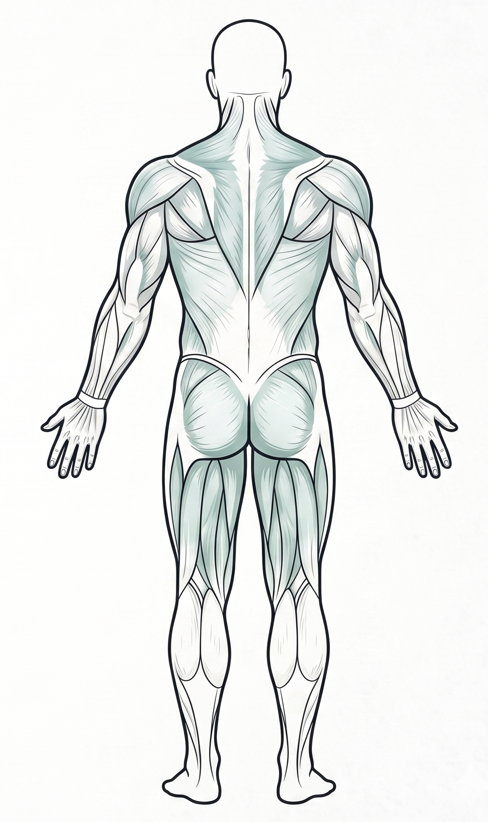
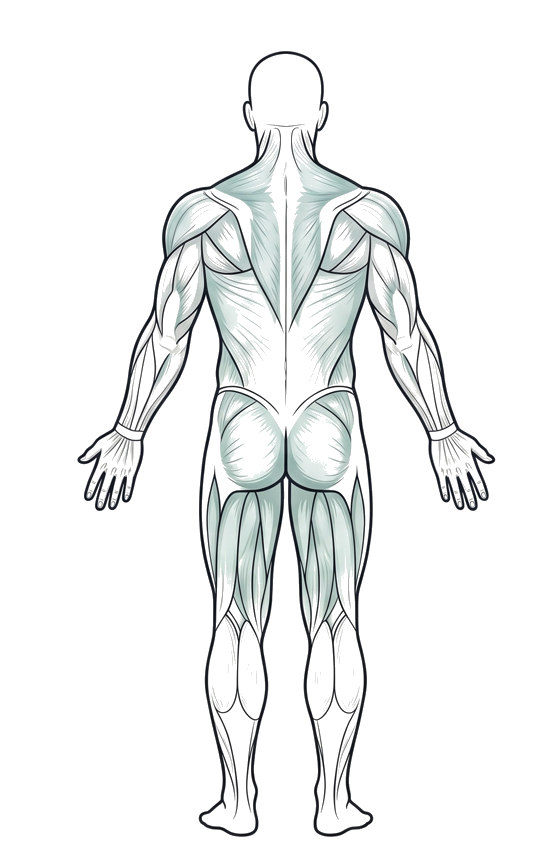
fix: transparent body PNGs; visible zone outlines; recalibrated hit areas for 499x820 images

Changed region(s): [[0.0922, 0.0304, 0.9529, 1.0], [0.4611, 0.0, 0.5533, 0.0304]]

diff --git a/APP/src/components/BodyLocationPicker.tsx b/APP/src/components/BodyLocationPicker.tsx
@@ -9,103 +9,99 @@ import { Spacing } from '@src/styles/spacings';
 import { FontFamily, FontSize } from '@src/styles/fonts';
 
 // ─── constants ───────────────────────────────────────────────────────────────
-const PRIMARY  = '#35C2C1';
-const OVERLAY  = 'rgba(53,194,193,0.40)';
-const BODY_W   = 200;
-const BODY_H   = 325;
+const PRIMARY       = '#35C2C1';
+const OVERLAY_SEL   = 'rgba(53,194,193,0.42)';
+const OUTLINE_IDLE  = 'rgba(53,194,193,0.45)';
 
-// ─── PNG assets ──────────────────────────────────────────────────────────────
-// Place body_front.png and body_back.png in APP/assets/
+// Display size. Images are 499x820 (front) and 488x822 (back).
+// Container uses exact aspect ratio 499/820 ≈ 0.608 so contain fills fully.
+const BODY_W = 200;
+const BODY_H = 329;
+
 const FRONT_IMG = require('../../assets/body_front.png');
 const BACK_IMG  = require('../../assets/body_back.png');
 
 // ─── zone type ───────────────────────────────────────────────────────────────
-// All coordinates are in pixels for a BODY_W×BODY_H (200×325) display container.
-// Zones are invisible Pressable overlays placed on top of the PNG image.
-// Anatomical convention: patient RIGHT = screen LEFT (x < 100), LEFT = screen RIGHT (x > 100).
+// Coordinates calibrated to 200x329 container for 499x820 image (scale ≈ 0.401).
+// Anatomical convention: patient RIGHT = screen LEFT (x<100), LEFT = screen RIGHT (x>100).
+// All zones show a subtle teal outline so the user can see where to tap.
 interface Zone {
   id: string;
-  top: number;
-  left: number;
-  width: number;
-  height: number;
+  top: number; left: number; width: number; height: number;
   borderRadius?: number;
 }
 
 // ─── FRONT zones ─────────────────────────────────────────────────────────────
 const FRONT_ZONES: Zone[] = [
-  { id: 'HEAD',            top:  8, left: 80, width: 40, height: 44, borderRadius: 22 },
-  { id: 'NECK',            top: 51, left: 88, width: 24, height: 15, borderRadius: 8  },
-  // torso
-  { id: 'SHOULDER_RIGHT',  top: 62, left: 38, width: 46, height: 28, borderRadius: 14 },
-  { id: 'SHOULDER_LEFT',   top: 62, left:116, width: 46, height: 28, borderRadius: 14 },
-  { id: 'CHEST',           top: 62, left: 78, width: 44, height: 56, borderRadius: 8  },
-  { id: 'ABDOMEN',         top:118, left: 80, width: 40, height: 44, borderRadius: 6  },
-  { id: 'PELVIS',          top:162, left: 80, width: 40, height: 22, borderRadius: 11 },
-  // right arm (patient right = screen left)
-  { id: 'ARM_UPPER_RIGHT', top: 64, left: 36, width: 24, height: 64, borderRadius: 12 },
-  { id: 'ELBOW_RIGHT',     top:128, left: 30, width: 24, height: 22, borderRadius: 11 },
-  { id: 'FOREARM_RIGHT',   top:150, left: 24, width: 22, height: 54, borderRadius: 8  },
-  { id: 'WRIST_RIGHT',     top:204, left: 20, width: 22, height: 16, borderRadius: 8  },
-  { id: 'HAND_RIGHT',      top:220, left: 12, width: 32, height: 48, borderRadius: 8  },
-  // left arm (patient left = screen right)
-  { id: 'ARM_UPPER_LEFT',  top: 64, left:140, width: 24, height: 64, borderRadius: 12 },
-  { id: 'ELBOW_LEFT',      top:128, left:146, width: 24, height: 22, borderRadius: 11 },
-  { id: 'FOREARM_LEFT',    top:150, left:154, width: 22, height: 54, borderRadius: 8  },
-  { id: 'WRIST_LEFT',      top:204, left:158, width: 22, height: 16, borderRadius: 8  },
-  { id: 'HAND_LEFT',       top:220, left:156, width: 32, height: 48, borderRadius: 8  },
-  // right leg
-  { id: 'HIP_RIGHT',       top:184, left: 68, width: 32, height: 24, borderRadius: 10 },
-  { id: 'THIGH_RIGHT',     top:184, left: 66, width: 34, height: 72, borderRadius: 10 },
-  { id: 'KNEE_RIGHT',      top:256, left: 68, width: 32, height: 22, borderRadius: 11 },
-  { id: 'LEG_LOWER_RIGHT', top:278, left: 70, width: 28, height: 42, borderRadius: 8  },
-  { id: 'ANKLE_RIGHT',     top:298, left: 71, width: 26, height: 16, borderRadius: 6  },
-  { id: 'FOOT_RIGHT',      top:306, left: 60, width: 36, height: 16, borderRadius: 6  },
-  // left leg
-  { id: 'HIP_LEFT',        top:184, left:100, width: 32, height: 24, borderRadius: 10 },
-  { id: 'THIGH_LEFT',      top:184, left:100, width: 34, height: 72, borderRadius: 10 },
-  { id: 'KNEE_LEFT',       top:256, left:100, width: 32, height: 22, borderRadius: 11 },
-  { id: 'LEG_LOWER_LEFT',  top:278, left:102, width: 28, height: 42, borderRadius: 8  },
-  { id: 'ANKLE_LEFT',      top:298, left:103, width: 26, height: 16, borderRadius: 6  },
-  { id: 'FOOT_LEFT',       top:306, left:104, width: 36, height: 16, borderRadius: 6  },
+  // Head & neck
+  { id: 'HEAD',            top:  13, left: 75, width: 50, height: 38, borderRadius: 25 },
+  { id: 'FACE',            top:  17, left: 79, width: 42, height: 30, borderRadius: 22 },
+  { id: 'NECK',            top:  50, left: 87, width: 26, height: 15, borderRadius:  8 },
+  // Torso front
+  { id: 'SHOULDER_RIGHT',  top:  63, left: 22, width: 58, height: 34, borderRadius: 14 },
+  { id: 'SHOULDER_LEFT',   top:  63, left:120, width: 58, height: 34, borderRadius: 14 },
+  { id: 'CHEST',           top:  63, left: 62, width: 76, height: 64, borderRadius:  8 },
+  { id: 'ABDOMEN',         top: 124, left: 66, width: 68, height: 52, borderRadius:  8 },
+  { id: 'PELVIS',          top: 174, left: 68, width: 64, height: 22, borderRadius: 11 },
+  // Right arm (patient right = screen left)
+  { id: 'ARM_UPPER_RIGHT', top:  63, left: 14, width: 52, height: 72, borderRadius: 14 },
+  { id: 'ELBOW_RIGHT',     top: 132, left: 12, width: 44, height: 20, borderRadius: 10 },
+  { id: 'FOREARM_RIGHT',   top: 150, left:  8, width: 44, height: 46, borderRadius: 12 },
+  { id: 'WRIST_RIGHT',     top: 194, left:  6, width: 42, height: 16, borderRadius:  8 },
+  { id: 'HAND_RIGHT',      top: 208, left:  4, width: 44, height: 40, borderRadius: 10 },
+  // Left arm (patient left = screen right)
+  { id: 'ARM_UPPER_LEFT',  top:  63, left:134, width: 52, height: 72, borderRadius: 14 },
+  { id: 'ELBOW_LEFT',      top: 132, left:144, width: 44, height: 20, borderRadius: 10 },
+  { id: 'FOREARM_LEFT',    top: 150, left:148, width: 44, height: 46, borderRadius: 12 },
+  { id: 'WRIST_LEFT',      top: 194, left:152, width: 42, height: 16, borderRadius:  8 },
+  { id: 'HAND_LEFT',       top: 208, left:152, width: 44, height: 40, borderRadius: 10 },
+  // Hips & legs (right = screen left)
+  { id: 'HIP_RIGHT',       top: 194, left: 64, width: 38, height: 22, borderRadius: 11 },
+  { id: 'HIP_LEFT',        top: 194, left: 98, width: 38, height: 22, borderRadius: 11 },
+  { id: 'THIGH_RIGHT',     top: 207, left: 62, width: 38, height: 54, borderRadius: 10 },
+  { id: 'THIGH_LEFT',      top: 207, left: 98, width: 38, height: 54, borderRadius: 10 },
+  { id: 'KNEE_RIGHT',      top: 259, left: 62, width: 38, height: 20, borderRadius: 10 },
+  { id: 'KNEE_LEFT',       top: 259, left: 98, width: 38, height: 20, borderRadius: 10 },
+  { id: 'LEG_LOWER_RIGHT', top: 277, left: 63, width: 36, height: 38, borderRadius: 10 },
+  { id: 'LEG_LOWER_LEFT',  top: 277, left: 99, width: 36, height: 38, borderRadius: 10 },
+  { id: 'ANKLE_RIGHT',     top: 313, left: 63, width: 34, height: 12, borderRadius:  6 },
+  { id: 'ANKLE_LEFT',      top: 313, left: 99, width: 34, height: 12, borderRadius:  6 },
+  { id: 'FOOT_RIGHT',      top: 320, left: 52, width: 44, height: 10, borderRadius:  5 },
+  { id: 'FOOT_LEFT',       top: 320, left: 98, width: 44, height: 10, borderRadius:  5 },
 ];
 
 // ─── BACK zones ───────────────────────────────────────────────────────────────
+// Back image 488x822; scale ≈ 0.409/0.400 – very close to front, same coords work.
 const BACK_ZONES: Zone[] = [
-  { id: 'HEAD',            top:  8, left: 80, width: 40, height: 44, borderRadius: 22 },
-  { id: 'NECK',            top: 51, left: 88, width: 24, height: 15, borderRadius: 8  },
-  // torso back
-  { id: 'SHOULDER_RIGHT',  top: 62, left: 38, width: 46, height: 28, borderRadius: 14 },
-  { id: 'SHOULDER_LEFT',   top: 62, left:116, width: 46, height: 28, borderRadius: 14 },
-  { id: 'BACK_UPPER',      top: 62, left: 78, width: 44, height: 56, borderRadius: 8  },
-  { id: 'BACK_LOWER',      top:118, left: 80, width: 40, height: 44, borderRadius: 6  },
-  { id: 'PELVIS',          top:162, left: 80, width: 40, height: 22, borderRadius: 11 },
-  // right arm
-  { id: 'ARM_UPPER_RIGHT', top: 64, left: 36, width: 24, height: 64, borderRadius: 12 },
-  { id: 'ELBOW_RIGHT',     top:128, left: 30, width: 24, height: 22, borderRadius: 11 },
-  { id: 'FOREARM_RIGHT',   top:150, left: 24, width: 22, height: 54, borderRadius: 8  },
-  { id: 'WRIST_RIGHT',     top:204, left: 20, width: 22, height: 16, borderRadius: 8  },
-  { id: 'HAND_RIGHT',      top:220, left: 12, width: 32, height: 48, borderRadius: 8  },
-  // left arm
-  { id: 'ARM_UPPER_LEFT',  top: 64, left:140, width: 24, height: 64, borderRadius: 12 },
-  { id: 'ELBOW_LEFT',      top:128, left:146, width: 24, height: 22, borderRadius: 11 },
-  { id: 'FOREARM_LEFT',    top:150, left:154, width: 22, height: 54, borderRadius: 8  },
-  { id: 'WRIST_LEFT',      top:204, left:158, width: 22, height: 16, borderRadius: 8  },
-  { id: 'HAND_LEFT',       top:220, left:156, width: 32, height: 48, borderRadius: 8  },
-  // right leg
-  { id: 'HIP_RIGHT',       top:184, left: 68, width: 32, height: 24, borderRadius: 10 },
-  { id: 'THIGH_RIGHT',     top:184, left: 66, width: 34, height: 72, borderRadius: 10 },
-  { id: 'KNEE_RIGHT',      top:256, left: 68, width: 32, height: 22, borderRadius: 11 },
-  { id: 'LEG_LOWER_RIGHT', top:278, left: 70, width: 28, height: 42, borderRadius: 8  },
-  { id: 'ANKLE_RIGHT',     top:298, left: 71, width: 26, height: 16, borderRadius: 6  },
-  { id: 'FOOT_RIGHT',      top:306, left: 60, width: 36, height: 16, borderRadius: 6  },
-  // left leg
-  { id: 'HIP_LEFT',        top:184, left:100, width: 32, height: 24, borderRadius: 10 },
-  { id: 'THIGH_LEFT',      top:184, left:100, width: 34, height: 72, borderRadius: 10 },
-  { id: 'KNEE_LEFT',       top:256, left:100, width: 32, height: 22, borderRadius: 11 },
-  { id: 'LEG_LOWER_LEFT',  top:278, left:102, width: 28, height: 42, borderRadius: 8  },
-  { id: 'ANKLE_LEFT',      top:298, left:103, width: 26, height: 16, borderRadius: 6  },
-  { id: 'FOOT_LEFT',       top:306, left:104, width: 36, height: 16, borderRadius: 6  },
+  { id: 'HEAD',            top:  13, left: 75, width: 50, height: 38, borderRadius: 25 },
+  { id: 'NECK',            top:  50, left: 87, width: 26, height: 15, borderRadius:  8 },
+  { id: 'SHOULDER_RIGHT',  top:  63, left: 22, width: 58, height: 34, borderRadius: 14 },
+  { id: 'SHOULDER_LEFT',   top:  63, left:120, width: 58, height: 34, borderRadius: 14 },
+  { id: 'BACK_UPPER',      top:  63, left: 62, width: 76, height: 64, borderRadius:  8 },
+  { id: 'BACK_LOWER',      top: 124, left: 66, width: 68, height: 52, borderRadius:  8 },
+  { id: 'PELVIS',          top: 174, left: 68, width: 64, height: 22, borderRadius: 11 },
+  { id: 'ARM_UPPER_RIGHT', top:  63, left: 14, width: 52, height: 72, borderRadius: 14 },
+  { id: 'ELBOW_RIGHT',     top: 132, left: 12, width: 44, height: 20, borderRadius: 10 },
+  { id: 'FOREARM_RIGHT',   top: 150, left:  8, width: 44, height: 46, borderRadius: 12 },
+  { id: 'WRIST_RIGHT',     top: 194, left:  6, width: 42, height: 16, borderRadius:  8 },
+  { id: 'HAND_RIGHT',      top: 208, left:  4, width: 44, height: 40, borderRadius: 10 },
+  { id: 'ARM_UPPER_LEFT',  top:  63, left:134, width: 52, height: 72, borderRadius: 14 },
+  { id: 'ELBOW_LEFT',      top: 132, left:144, width: 44, height: 20, borderRadius: 10 },
+  { id: 'FOREARM_LEFT',    top: 150, left:148, width: 44, height: 46, borderRadius: 12 },
+  { id: 'WRIST_LEFT',      top: 194, left:152, width: 42, height: 16, borderRadius:  8 },
+  { id: 'HAND_LEFT',       top: 208, left:152, width: 44, height: 40, borderRadius: 10 },
+  { id: 'HIP_RIGHT',       top: 194, left: 64, width: 38, height: 22, borderRadius: 11 },
+  { id: 'HIP_LEFT',        top: 194, left: 98, width: 38, height: 22, borderRadius: 11 },
+  { id: 'THIGH_RIGHT',     top: 207, left: 62, width: 38, height: 54, borderRadius: 10 },
+  { id: 'THIGH_LEFT',      top: 207, left: 98, width: 38, height: 54, borderRadius: 10 },
+  { id: 'KNEE_RIGHT',      top: 259, left: 62, width: 38, height: 20, borderRadius: 10 },
+  { id: 'KNEE_LEFT',       top: 259, left: 98, width: 38, height: 20, borderRadius: 10 },
+  { id: 'LEG_LOWER_RIGHT', top: 277, left: 63, width: 36, height: 38, borderRadius: 10 },
+  { id: 'LEG_LOWER_LEFT',  top: 277, left: 99, width: 36, height: 38, borderRadius: 10 },
+  { id: 'ANKLE_RIGHT',     top: 313, left: 63, width: 34, height: 12, borderRadius:  6 },
+  { id: 'ANKLE_LEFT',      top: 313, left: 99, width: 34, height: 12, borderRadius:  6 },
+  { id: 'FOOT_RIGHT',      top: 320, left: 52, width: 44, height: 10, borderRadius:  5 },
+  { id: 'FOOT_LEFT',       top: 320, left: 98, width: 44, height: 10, borderRadius:  5 },
 ];
 
 // ─── component ───────────────────────────────────────────────────────────────
@@ -119,12 +115,11 @@ const BodyLocationPicker: React.FC<BodyLocationPickerProps> = ({ selected, onCha
   const { t } = useTranslation();
   const [view, setView] = useState<'front' | 'back'>('front');
 
-  const toggle = (id: string) => {
+  const toggle = (id: string) =>
     onChange(selected.includes(id) ? selected.filter(l => l !== id) : [...selected, id]);
-  };
 
-  const zones = view === 'front' ? FRONT_ZONES : BACK_ZONES;
-  const bodyImage = view === 'front' ? FRONT_IMG : BACK_IMG;
+  const zones      = view === 'front' ? FRONT_ZONES : BACK_ZONES;
+  const bodyImage  = view === 'front' ? FRONT_IMG : BACK_IMG;
 
   return (
     <View style={styles.wrapper}>
@@ -145,7 +140,7 @@ const BodyLocationPicker: React.FC<BodyLocationPickerProps> = ({ selected, onCha
         ))}
       </View>
 
-      {/* Body image + invisible zone overlays */}
+      {/* Body PNG + invisible hit areas */}
       <View style={styles.bodyContainer}>
         <Image source={bodyImage} style={styles.bodyImage} resizeMode="contain" />
 
@@ -163,15 +158,16 @@ const BodyLocationPicker: React.FC<BodyLocationPickerProps> = ({ selected, onCha
                   height: zone.height,
                   borderRadius: zone.borderRadius ?? 6,
                 },
-                isSel && styles.zoneSelected,
+                isSel ? styles.zoneSelected : styles.zoneIdle,
               ]}
               onPress={() => toggle(zone.id)}
+              hitSlop={4}
             />
           );
         })}
       </View>
 
-      {/* Selected location chips */}
+      {/* Selected chips */}
       {selected.length > 0 ? (
         <ScrollView
           horizontal
@@ -209,30 +205,28 @@ const styles = StyleSheet.create({
     borderWidth: 1,
     borderColor: PRIMARY,
   },
-  toggleBtn:       { paddingHorizontal: 32, paddingVertical: 8, backgroundColor: Color.white },
-  toggleBtnActive: { backgroundColor: PRIMARY },
-  toggleText:      { fontFamily: FontFamily.medium, fontSize: FontSize.bodysmall_14, color: PRIMARY },
-  toggleTextActive:{ color: Color.white },
+  toggleBtn:        { paddingHorizontal: 32, paddingVertical: 8, backgroundColor: Color.white },
+  toggleBtnActive:  { backgroundColor: PRIMARY },
+  toggleText:       { fontFamily: FontFamily.medium, fontSize: FontSize.bodysmall_14, color: PRIMARY },
+  toggleTextActive: { color: Color.white },
 
-  bodyContainer: {
-    width: BODY_W,
-    height: BODY_H,
-    position: 'relative',
-  },
-  bodyImage: {
-    width: BODY_W,
-    height: BODY_H,
-  },
+  bodyContainer: { width: BODY_W, height: BODY_H, position: 'relative' },
+  bodyImage:     { width: BODY_W, height: BODY_H },
 
-  // Transparent hotspot overlay (invisible by default)
   zone: {
     position: 'absolute',
-    backgroundColor: 'transparent',
   },
-  // Selected: teal fill + border
+  // Subtle visible outline so user can see where to tap
+  zoneIdle: {
+    backgroundColor: 'transparent',
+    borderWidth: 1,
+    borderColor: OUTLINE_IDLE,
+    borderStyle: 'dashed',
+  },
+  // Teal solid fill when selected
   zoneSelected: {
-    backgroundColor: OVERLAY,
-    borderWidth: 1.5,
+    backgroundColor: OVERLAY_SEL,
+    borderWidth: 2,
     borderColor: PRIMARY,
   },
 
